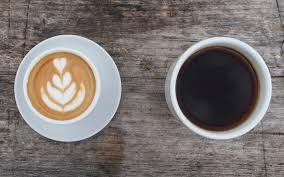
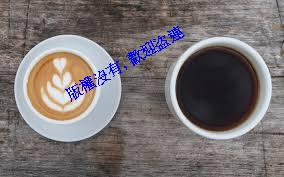
01221411push

Changed region(s): [[0.2254, 0.113, 0.6761, 0.6497]]

diff --git a/BradWeb/src/main/java/tw/brad/servlet/Brad15.java b/BradWeb/src/main/java/tw/brad/servlet/Brad15.java
@@ -27,7 +27,7 @@ public class Brad15 extends HttpServlet {
 		BufferedImage img = ImageIO.read(new File(source));
 		Graphics2D g2d = img.createGraphics();
 		
-		Font f1 = new Font(null, Font.BOLD, 72);
+		Font f1 = new Font(null, Font.BOLD, 15);
 		
 		AffineTransform transform = new AffineTransform();
 		transform.rotate(Math.toRadians(-30));
@@ -35,7 +35,7 @@ public class Brad15 extends HttpServlet {
 		
 		g2d.setFont(f2);
 		g2d.setColor(Color.BLUE);
-		g2d.drawString("版權沒有, 歡迎盜連", 600, 600);
+		g2d.drawString("版權沒有, 歡迎盜連", 70, 100);
 		
 		response.setContentType("image/jpeg");
 		ImageIO.write(img, "JPEG", response.getOutputStream());
